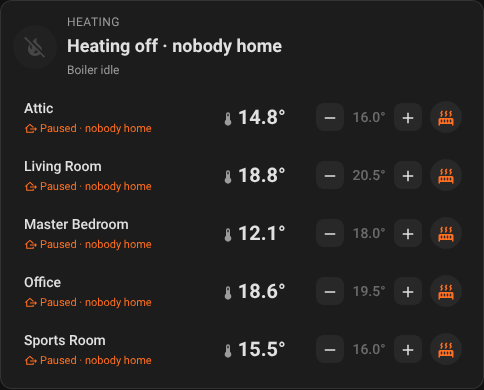
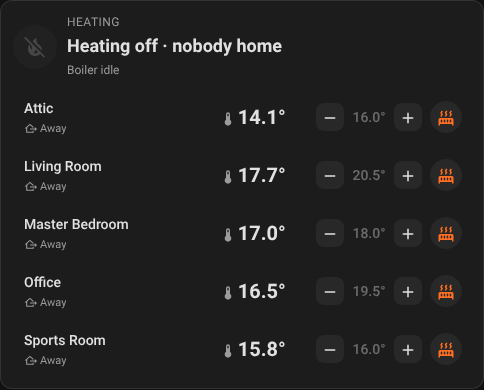
Docs: Away rows on the card (#128)
Claude-Session: https://claude.ai/code/session_017BEvUooA9YhkZQ4CXcPAKn

diff --git a/docs/away.md b/docs/away.md
@@ -31,9 +31,9 @@ When the presence entity is unavailable or unknown, the house counts as occupied
 
 ## What you see on the card
 
-<p align="center"><img src="https://raw.githubusercontent.com/BarBaar44/Cloudless-Multiroom-Thermostat/main/docs/images/card-away.png" alt="Heating Control Card while nobody is home: every room paused" width="412"></p>
+<p align="center"><img src="https://raw.githubusercontent.com/BarBaar44/Cloudless-Multiroom-Thermostat/main/docs/images/card-away.png" alt="Heating Control Card while nobody is home: every room Away" width="412"></p>
 
-With **Turn rooms off**, rooms set to heat show as **Paused** with the reason away. With **Lower rooms to eco**, they keep heating, to the lower temperature. Rooms that are Off stay Off either way, and every room returns to its own mode and target when someone is home.
+With **Turn rooms off**, rooms set to heat show **Away**, and the header says **Heating off · nobody home**. With **Lower rooms to eco**, they keep heating, to the lower temperature. Rooms that are Off stay Off either way, and every room returns to its own mode and target when someone is home.
 
 The heating system's **Winning room** sensor has a `present` attribute; each room's **Paused** sensor says why it is paused.
 
